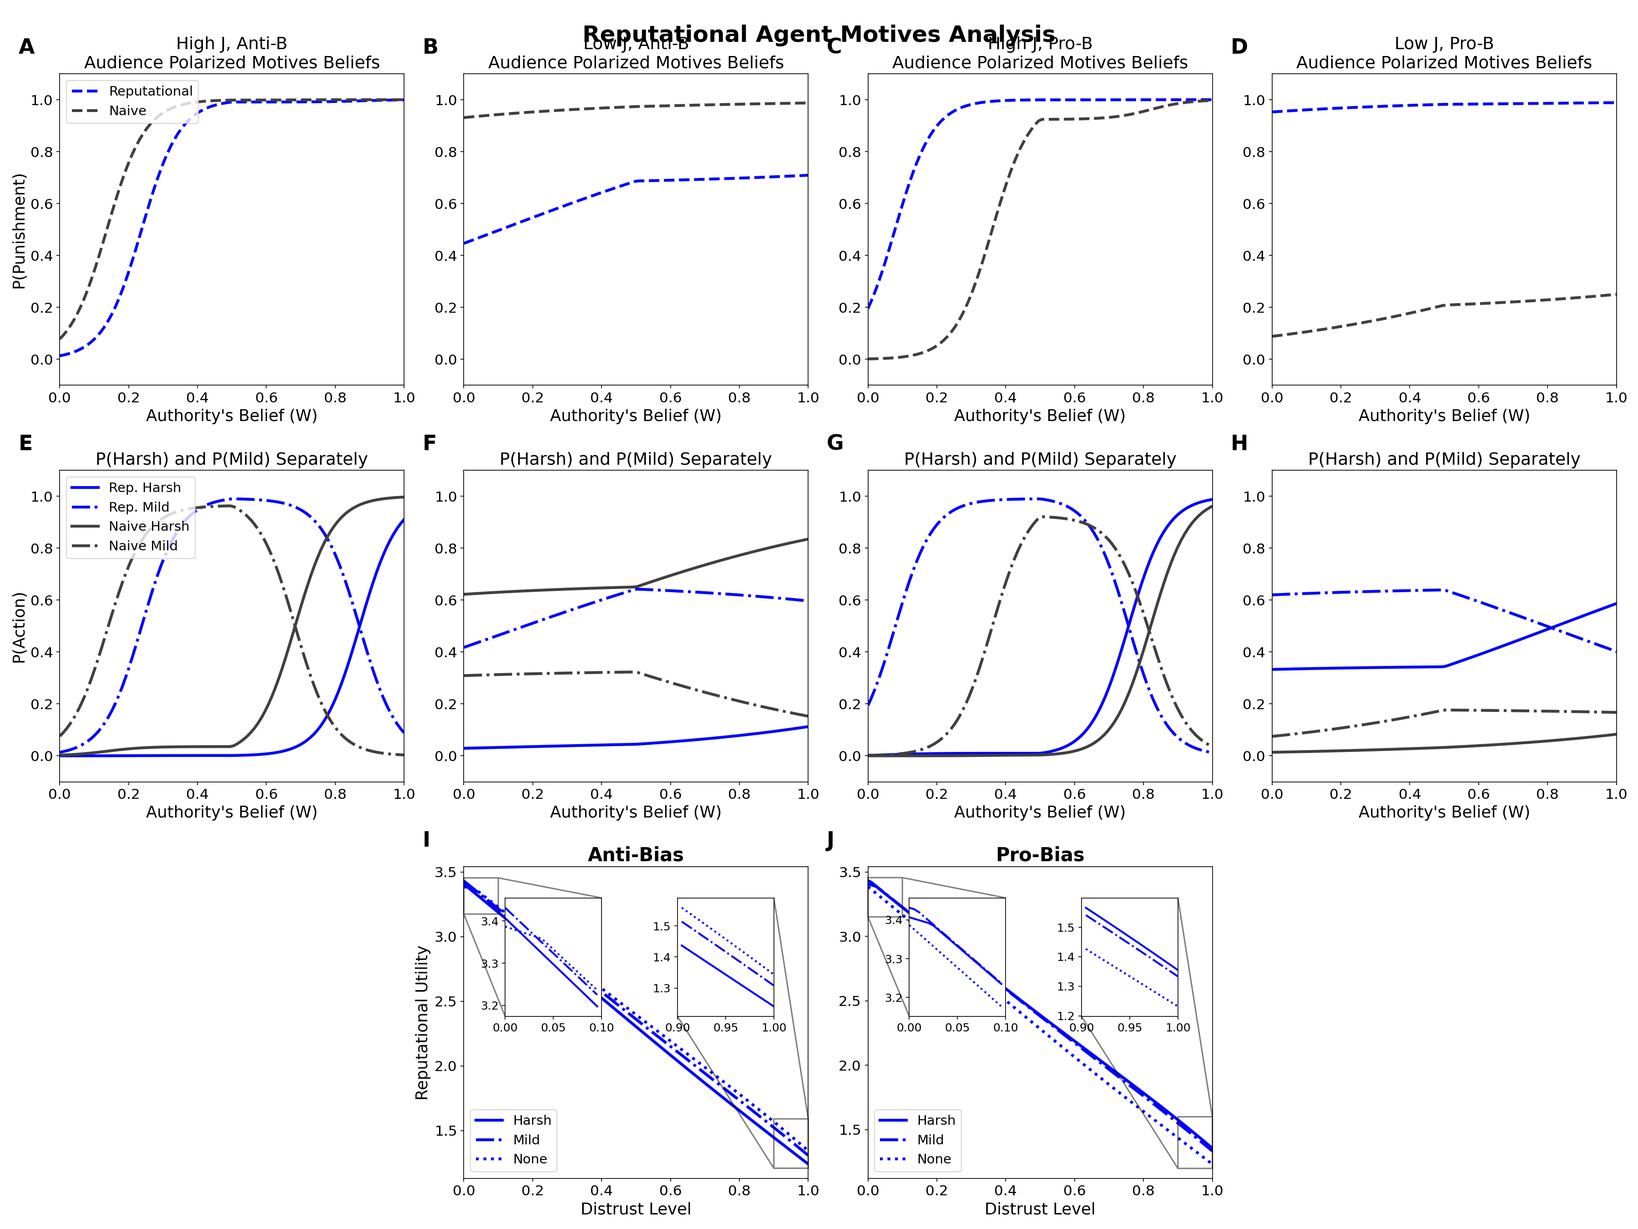
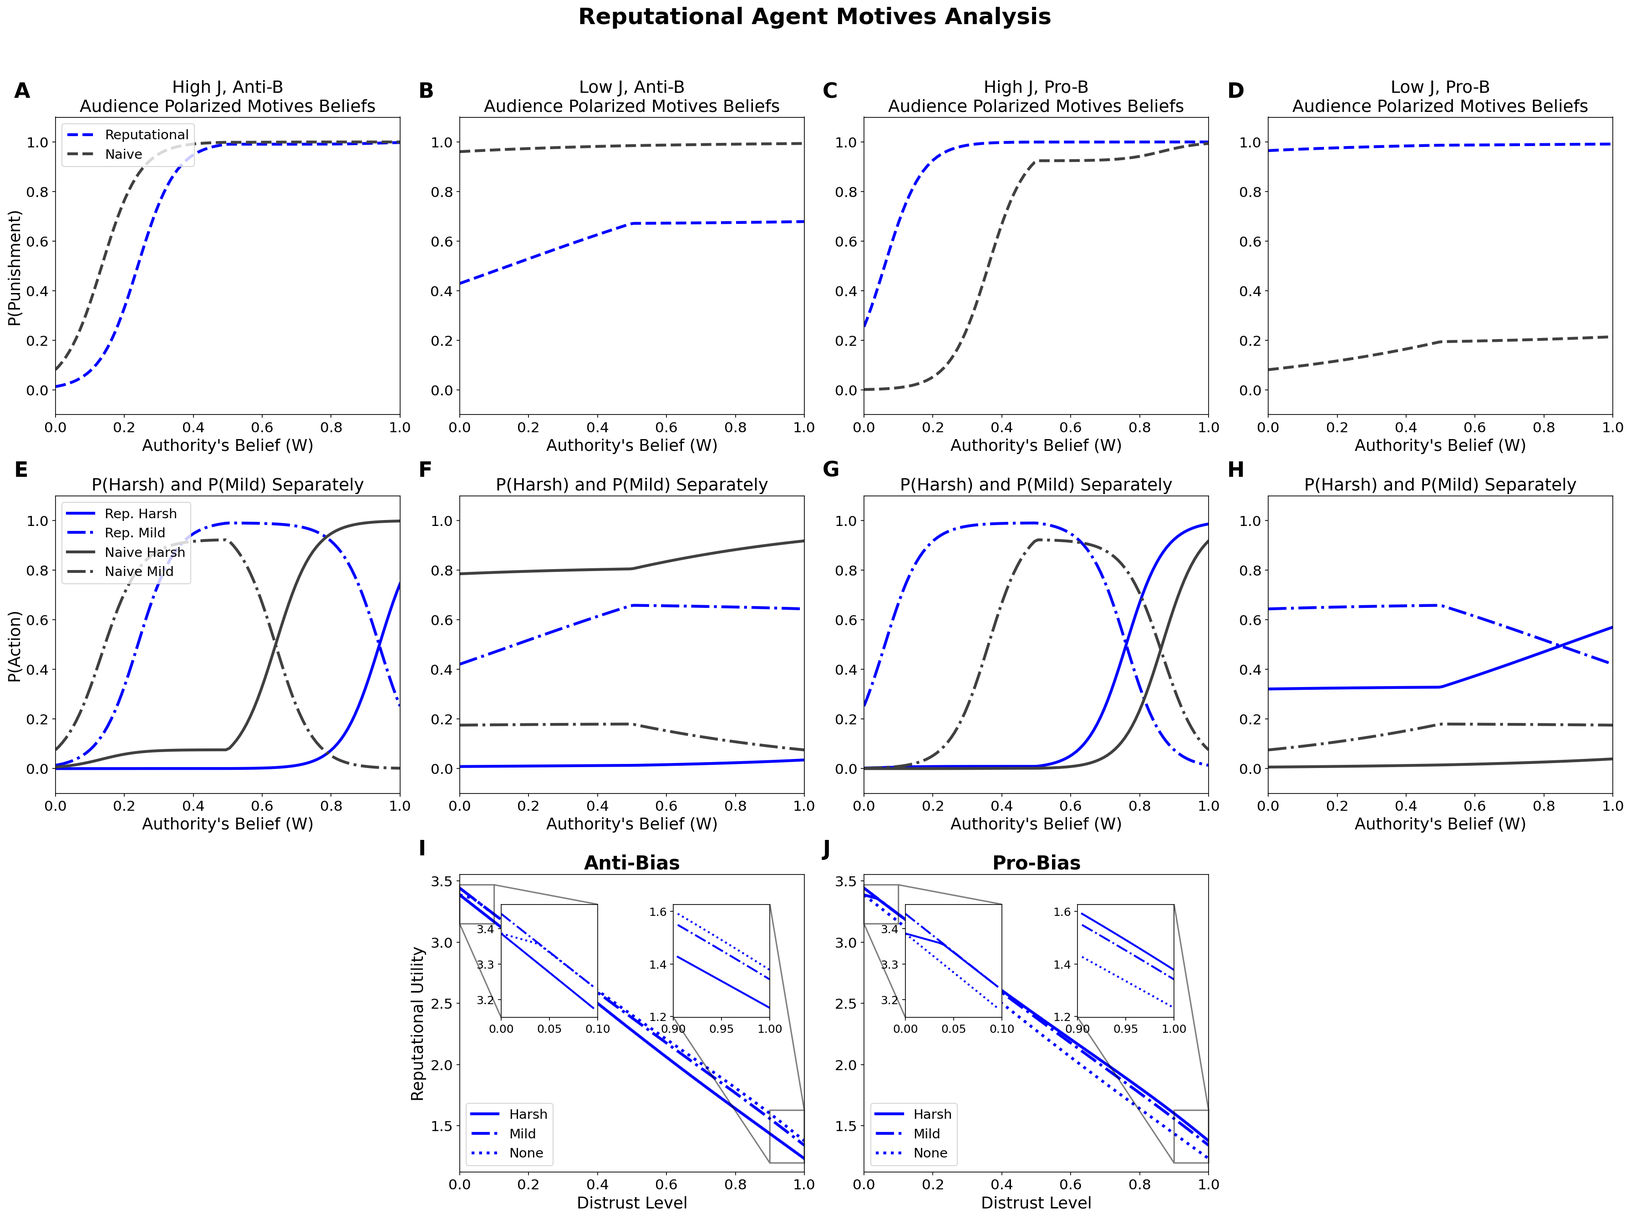
submit

diff --git a/new_models/plot_results.py b/new_models/plot_results.py
@@ -1168,6 +1168,9 @@ FIG2_ALT_FONT_MULTIPLIER = 1.25
 # Color for naive agent in final plots (dark grey instead of green)
 NAIVE_COLOR = '#404040'  # Dark grey
 
+# Lighter blue for alternative figures
+LIGHT_BLUE = '#4A90D9'  # Lighter blue color
+
 # Line styles - CONSISTENT ACROSS ALL PLOTS
 LINESTYLE_HARSH = '-'       # Solid (both probability and utility)
 LINESTYLE_MILD = '-.'       # Dash-dot
@@ -1175,10 +1178,13 @@ LINESTYLE_NONE = ':'        # Dotted
 LINESTYLE_TOTAL = '--'      # Dashed (for total punishment)
 
 
-def run_subplot_polarized_wrongness_final(model_ctx, ax, agent_type, w_values, show_ylabel=True):
+def run_subplot_polarized_wrongness_final(model_ctx, ax, agent_type, w_values, show_ylabel=True, rep_color='blue'):
     """
     Subplot: Polarized Wrongness, Uncertain Motives - reputational and naive agents.
     Shows P(Harsh) and P(Mild) for both agents.
+    
+    Args:
+        rep_color: Color for reputational agent lines (default 'blue').
     """
     true_j, true_b = agent_type['j'], agent_type['b']
     
@@ -1189,7 +1195,7 @@ def run_subplot_polarized_wrongness_final(model_ctx, ax, agent_type, w_values, s
     priors_in = (p_in_w, p_b_unc, p_j_unc)
     priors_out = (p_out_w, p_b_unc, p_j_unc)
     
-    # Reputational agent (blue)
+    # Reputational agent
     weights_rep = get_agent_weights('reputation')
     y_harsh_rep, y_mild_rep = [], []
     
@@ -1206,9 +1212,9 @@ def run_subplot_polarized_wrongness_final(model_ctx, ax, agent_type, w_values, s
         y_harsh_naive.append(probs_naive[2])
         y_mild_naive.append(probs_naive[1])
     
-    # Plot reputational (blue) - Harsh=solid, Mild=dash-dot
-    ax.plot(w_values, y_harsh_rep, color='blue', linestyle=LINESTYLE_HARSH, linewidth=FINAL_LINEWIDTH, label='Rep. Harsh')
-    ax.plot(w_values, y_mild_rep, color='blue', linestyle=LINESTYLE_MILD, linewidth=FINAL_LINEWIDTH, label='Rep. Mild')
+    # Plot reputational - Harsh=solid, Mild=dash-dot
+    ax.plot(w_values, y_harsh_rep, color=rep_color, linestyle=LINESTYLE_HARSH, linewidth=FINAL_LINEWIDTH, label='Rep. Harsh')
+    ax.plot(w_values, y_mild_rep, color=rep_color, linestyle=LINESTYLE_MILD, linewidth=FINAL_LINEWIDTH, label='Rep. Mild')
     
     # Plot naive (dark grey) - Harsh=solid, Mild=dash-dot
     ax.plot(w_values, y_harsh_naive, color=NAIVE_COLOR, linestyle=LINESTYLE_HARSH, linewidth=FINAL_LINEWIDTH, label='Naive Harsh')
@@ -1222,11 +1228,14 @@ def run_subplot_polarized_wrongness_final(model_ctx, ax, agent_type, w_values, s
     ax.tick_params(axis='both', which='major', labelsize=FINAL_TICK_FONTSIZE)
 
 
-def run_subplot_wrongness_polarization_utility_final(model_ctx, ax, agent_type, pol_values, auth_w, show_ylabel=True):
+def run_subplot_wrongness_polarization_utility_final(model_ctx, ax, agent_type, pol_values, auth_w, show_ylabel=True, rep_color='blue'):
     """
     Subplot: Wrongness Polarization Utility - only reputational agent, all 3 actions.
     Shows utility for None, Mild, and Harsh actions.
     Uses consistent line styles: Harsh=solid, Mild=dotted, None=dash-dot.
+    
+    Args:
+        rep_color: Color for reputational agent lines (default 'blue').
     """
     true_j, true_b = agent_type['j'], agent_type['b']
     p_motives = ((1.0, 1.0), (1.0, 1.0), (1.0, 1.0))
@@ -1247,9 +1256,9 @@ def run_subplot_wrongness_polarization_utility_final(model_ctx, ax, agent_type, 
         y_mild.append(utils_rep[1]['u_rep'])
         y_none.append(utils_rep[0]['u_rep'])
     
-    ax.plot(pol_values, y_harsh, color='blue', linestyle=LINESTYLE_HARSH, linewidth=FINAL_LINEWIDTH, label='Harsh')
-    ax.plot(pol_values, y_mild, color='blue', linestyle=LINESTYLE_MILD, linewidth=FINAL_LINEWIDTH, label='Mild')
-    ax.plot(pol_values, y_none, color='blue', linestyle=LINESTYLE_NONE, linewidth=FINAL_LINEWIDTH, label='None')
+    ax.plot(pol_values, y_harsh, color=rep_color, linestyle=LINESTYLE_HARSH, linewidth=FINAL_LINEWIDTH, label='Harsh')
+    ax.plot(pol_values, y_mild, color=rep_color, linestyle=LINESTYLE_MILD, linewidth=FINAL_LINEWIDTH, label='Mild')
+    ax.plot(pol_values, y_none, color=rep_color, linestyle=LINESTYLE_NONE, linewidth=FINAL_LINEWIDTH, label='None')
     
     ax.set_xlabel("Polarization Level", fontsize=FINAL_LABEL_FONTSIZE)
     if show_ylabel:
@@ -1318,7 +1327,7 @@ def run_subplot_polarized_motives_final(model_ctx, ax, agent_type, w_values, sho
     ax.tick_params(axis='both', which='major', labelsize=FINAL_TICK_FONTSIZE)
 
 
-def run_subplot_polarized_motives_final_v2(model_ctx, ax, agent_type, w_values, show_total=True, show_ylabel=True, font_mult=1.0):
+def run_subplot_polarized_motives_final_v2(model_ctx, ax, agent_type, w_values, show_total=True, show_ylabel=True, font_mult=1.0, rep_color='blue'):
     """
     Subplot: Polarized Motives, Uncertain Wrongness - reputational and naive agents.
     Version 2 for Figure 2 Alternative.
@@ -1326,6 +1335,7 @@ def run_subplot_polarized_motives_final_v2(model_ctx, ax, agent_type, w_values, 
     Args:
         show_total: If True, show P(Punishment) dashed. If False, show P(Harsh) solid and P(Mild) dotted.
         font_mult: Font size multiplier (default 1.0).
+        rep_color: Color for reputational agent lines (default 'blue').
     """
     true_j, true_b = agent_type['j'], agent_type['b']
     
@@ -1339,7 +1349,7 @@ def run_subplot_polarized_motives_final_v2(model_ctx, ax, agent_type, w_values, 
     priors_in = (p_in_w, p_in_b, p_in_j)
     priors_out = (p_out_w, p_out_b, p_out_j)
     
-    # Reputational agent (blue)
+    # Reputational agent
     weights_rep = get_agent_weights('reputation')
     y_total_rep, y_harsh_rep, y_mild_rep = [], [], []
     
@@ -1363,14 +1373,14 @@ def run_subplot_polarized_motives_final_v2(model_ctx, ax, agent_type, w_values, 
     
     if show_total:
         # P(Punishment) = dashed
-        ax.plot(w_values, y_total_rep, color='blue', linestyle=LINESTYLE_TOTAL, linewidth=FINAL_LINEWIDTH, label='Rep. P(Punish)')
-        ax.plot(w_values, y_total_naive, color=NAIVE_COLOR, linestyle=LINESTYLE_TOTAL, linewidth=FINAL_LINEWIDTH, label='Naive P(Punish)')
+        ax.plot(w_values, y_total_rep, color=rep_color, linestyle=LINESTYLE_TOTAL, linewidth=FINAL_LINEWIDTH, label='Rep. Punish')
+        ax.plot(w_values, y_total_naive, color=NAIVE_COLOR, linestyle=LINESTYLE_TOTAL, linewidth=FINAL_LINEWIDTH, label='Naive Punish')
         if show_ylabel:
             ax.set_ylabel("P(Punishment)", fontsize=label_fs)
     else:
         # P(Harsh) = solid, P(Mild) = dash-dot
-        ax.plot(w_values, y_harsh_rep, color='blue', linestyle=LINESTYLE_HARSH, linewidth=FINAL_LINEWIDTH, label='Rep. Harsh')
-        ax.plot(w_values, y_mild_rep, color='blue', linestyle=LINESTYLE_MILD, linewidth=FINAL_LINEWIDTH, label='Rep. Mild')
+        ax.plot(w_values, y_harsh_rep, color=rep_color, linestyle=LINESTYLE_HARSH, linewidth=FINAL_LINEWIDTH, label='Rep. Harsh')
+        ax.plot(w_values, y_mild_rep, color=rep_color, linestyle=LINESTYLE_MILD, linewidth=FINAL_LINEWIDTH, label='Rep. Mild')
         ax.plot(w_values, y_harsh_naive, color=NAIVE_COLOR, linestyle=LINESTYLE_HARSH, linewidth=FINAL_LINEWIDTH, label='Naive Harsh')
         ax.plot(w_values, y_mild_naive, color=NAIVE_COLOR, linestyle=LINESTYLE_MILD, linewidth=FINAL_LINEWIDTH, label='Naive Mild')
         if show_ylabel:
@@ -1382,7 +1392,7 @@ def run_subplot_polarized_motives_final_v2(model_ctx, ax, agent_type, w_values, 
     ax.tick_params(axis='both', which='major', labelsize=tick_fs)
 
 
-def run_subplot_trust_polarization_utility_final_with_insets(model_ctx, ax, agent_type, pol_values, auth_w, show_ylabel=True, inset_bottom=False, font_mult=1.0):
+def run_subplot_trust_polarization_utility_final_with_insets(model_ctx, ax, agent_type, pol_values, auth_w, show_ylabel=True, inset_bottom=False, font_mult=1.0, rep_color='blue'):
     """
     Subplot: Trust Polarization Utility - only reputational agent, all 3 actions.
     Includes inset zoom boxes for the extremes (0-0.1 and 0.9-1.0).
@@ -1390,6 +1400,7 @@ def run_subplot_trust_polarization_utility_final_with_insets(model_ctx, ax, agen
     Args:
         inset_bottom: If True, place left inset at bottom-left to avoid covering main lines.
         font_mult: Font size multiplier (default 1.0).
+        rep_color: Color for reputational agent lines (default 'blue').
     """
     true_j, true_b = agent_type['j'], agent_type['b']
     
@@ -1429,9 +1440,9 @@ def run_subplot_trust_polarization_utility_final_with_insets(model_ctx, ax, agen
     inset_tick_fs = int(FINAL_INSET_TICK_FONTSIZE * font_mult)
     
     # Main plot - using consistent line styles: Harsh=solid, Mild=dotted, None=dash-dot
-    ax.plot(pol_values, y_harsh, color='blue', linestyle=LINESTYLE_HARSH, linewidth=FINAL_LINEWIDTH, label='Harsh')
-    ax.plot(pol_values, y_mild, color='blue', linestyle=LINESTYLE_MILD, linewidth=FINAL_LINEWIDTH, label='Mild')
-    ax.plot(pol_values, y_none, color='blue', linestyle=LINESTYLE_NONE, linewidth=FINAL_LINEWIDTH, label='None')
+    ax.plot(pol_values, y_harsh, color=rep_color, linestyle=LINESTYLE_HARSH, linewidth=FINAL_LINEWIDTH, label='Harsh')
+    ax.plot(pol_values, y_mild, color=rep_color, linestyle=LINESTYLE_MILD, linewidth=FINAL_LINEWIDTH, label='Mild')
+    ax.plot(pol_values, y_none, color=rep_color, linestyle=LINESTYLE_NONE, linewidth=FINAL_LINEWIDTH, label='None')
     
     ax.set_xlabel("Distrust Level", fontsize=label_fs)
     if show_ylabel:
@@ -1448,9 +1459,9 @@ def run_subplot_trust_polarization_utility_final_with_insets(model_ctx, ax, agen
     # Filter data for left inset
     mask_left = pol_values <= 0.1
     if np.any(mask_left):
-        axins1.plot(pol_values[mask_left], y_harsh[mask_left], color='blue', linestyle=LINESTYLE_HARSH, linewidth=FINAL_INSET_LINEWIDTH)
-        axins1.plot(pol_values[mask_left], y_mild[mask_left], color='blue', linestyle=LINESTYLE_MILD, linewidth=FINAL_INSET_LINEWIDTH)
-        axins1.plot(pol_values[mask_left], y_none[mask_left], color='blue', linestyle=LINESTYLE_NONE, linewidth=FINAL_INSET_LINEWIDTH)
+        axins1.plot(pol_values[mask_left], y_harsh[mask_left], color=rep_color, linestyle=LINESTYLE_HARSH, linewidth=FINAL_INSET_LINEWIDTH)
+        axins1.plot(pol_values[mask_left], y_mild[mask_left], color=rep_color, linestyle=LINESTYLE_MILD, linewidth=FINAL_INSET_LINEWIDTH)
+        axins1.plot(pol_values[mask_left], y_none[mask_left], color=rep_color, linestyle=LINESTYLE_NONE, linewidth=FINAL_INSET_LINEWIDTH)
         axins1.set_xlim(0.0, 0.1)
         # Auto-scale y based on data range
         all_y_left = np.concatenate([y_harsh[mask_left], y_mild[mask_left], y_none[mask_left]])
@@ -1465,9 +1476,9 @@ def run_subplot_trust_polarization_utility_final_with_insets(model_ctx, ax, agen
     # Filter data for right inset
     mask_right = pol_values >= 0.9
     if np.any(mask_right):
-        axins2.plot(pol_values[mask_right], y_harsh[mask_right], color='blue', linestyle=LINESTYLE_HARSH, linewidth=FINAL_INSET_LINEWIDTH)
-        axins2.plot(pol_values[mask_right], y_mild[mask_right], color='blue', linestyle=LINESTYLE_MILD, linewidth=FINAL_INSET_LINEWIDTH)
-        axins2.plot(pol_values[mask_right], y_none[mask_right], color='blue', linestyle=LINESTYLE_NONE, linewidth=FINAL_INSET_LINEWIDTH)
+        axins2.plot(pol_values[mask_right], y_harsh[mask_right], color=rep_color, linestyle=LINESTYLE_HARSH, linewidth=FINAL_INSET_LINEWIDTH)
+        axins2.plot(pol_values[mask_right], y_mild[mask_right], color=rep_color, linestyle=LINESTYLE_MILD, linewidth=FINAL_INSET_LINEWIDTH)
+        axins2.plot(pol_values[mask_right], y_none[mask_right], color=rep_color, linestyle=LINESTYLE_NONE, linewidth=FINAL_INSET_LINEWIDTH)
         axins2.set_xlim(0.9, 1.0)
         # Auto-scale y based on data range
         all_y_right = np.concatenate([y_harsh[mask_right], y_mild[mask_right], y_none[mask_right]])
@@ -1689,7 +1700,7 @@ def run_final_figure_1(model_ctx, filename="final_fig1.png"):
     # Row 2: 1 centered subplot spanning the middle 2 positions
     ax_row2 = fig.add_subplot(2, 4, (6, 7))
     
-    fig.suptitle("Reputational Agent Wrongness Analysis", fontsize=FINAL_SUPTITLE_FONTSIZE, fontweight='bold')
+    fig.suptitle("Reputational Agent Wrongness Analysis", fontsize=FINAL_SUPTITLE_FONTSIZE, fontweight='bold', y=0.99)
     
     w_values = np.linspace(0.0, 1.0, 100)
     pol_values = np.linspace(0.0, 1.0, 100)
@@ -1720,8 +1731,8 @@ def run_final_figure_1(model_ctx, filename="final_fig1.png"):
     ax_row2.text(-0.06, 1.05, 'E', transform=ax_row2.transAxes, fontsize=FINAL_SUBPLOT_LABEL_FONTSIZE, fontweight='bold', va='bottom')
     
     plt.tight_layout()
-    plt.subplots_adjust(top=0.92)
-    plt.savefig(filename, dpi=150)
+    plt.subplots_adjust(top=0.88)
+    plt.savefig(filename, dpi=150, bbox_inches='tight')
     plt.close(fig)
     logger.info(f"Final Figure 1 saved to {filename} in {time.time() - figure_start:.2f}s")
 
@@ -1772,7 +1783,7 @@ def run_final_figure_2(model_ctx, filename="final_fig2.png"):
     ax_row3_left = fig.add_subplot(3, 4, 10)
     ax_row3_right = fig.add_subplot(3, 4, 11)
     
-    fig.suptitle("Reputational Agent Motives Analysis", fontsize=FINAL_SUPTITLE_FONTSIZE, fontweight='bold')
+    fig.suptitle("Reputational Agent Motives Analysis", fontsize=FINAL_SUPTITLE_FONTSIZE, fontweight='bold', y=0.99)
     
     w_values = np.linspace(0.0, 1.0, 100)
     pol_values = np.linspace(0.0, 1.0, 200)  # More points for smoother inset zooms
@@ -1827,8 +1838,8 @@ def run_final_figure_2(model_ctx, filename="final_fig2.png"):
     ax_row3_right.text(-0.12, 1.05, 'J', transform=ax_row3_right.transAxes, fontsize=FINAL_SUBPLOT_LABEL_FONTSIZE, fontweight='bold', va='bottom')
     
     plt.tight_layout()
-    plt.subplots_adjust(top=0.94)
-    plt.savefig(filename, dpi=150)
+    plt.subplots_adjust(top=0.90)
+    plt.savefig(filename, dpi=150, bbox_inches='tight')
     plt.close(fig)
     logger.info(f"Final Figure 2 saved to {filename} in {time.time() - figure_start:.2f}s")
 
@@ -1846,7 +1857,7 @@ def run_final_figure_1_alt(model_ctx, filename="final_fig1_alt.png"):
     
     fig, axes = plt.subplots(1, 5, figsize=(30, 6))
     
-    fig.suptitle("Reputational Agent Wrongness Analysis", fontsize=FINAL_SUPTITLE_FONTSIZE, fontweight='bold', y=0.98)
+    fig.suptitle("Polarization in Moral Beliefs", fontsize=FINAL_SUPTITLE_FONTSIZE, fontweight='bold', y=1.08)
     
     w_values = np.linspace(0.0, 1.0, 100)
     pol_values = np.linspace(0.0, 1.0, 100)
@@ -1858,9 +1869,9 @@ def run_final_figure_1_alt(model_ctx, filename="final_fig1_alt.png"):
         agent_type = AGENT_TYPES[agent_idx]
         logger.info(f"  Processing column {col+1}/5: {agent_type['label']}")
         ax = axes[col]
-        ax.set_title(f"{agent_type['label']}\nAudience Polarized Wrongness Beliefs", fontsize=FINAL_TITLE_FONTSIZE)
+        ax.set_title(agent_type['label'], fontsize=FINAL_TITLE_FONTSIZE)
         show_ylabel = (col == 0)
-        run_subplot_polarized_wrongness_final(model_ctx, ax, agent_type, w_values, show_ylabel=show_ylabel)
+        run_subplot_polarized_wrongness_final(model_ctx, ax, agent_type, w_values, show_ylabel=show_ylabel, rep_color=LIGHT_BLUE)
         if col == 0:
             ax.legend(loc='upper left', fontsize=FINAL_LEGEND_FONTSIZE)
         # Add unique alphabetical label
@@ -1871,14 +1882,14 @@ def run_final_figure_1_alt(model_ctx, filename="final_fig1_alt.png"):
     agent_type_for_utility = AGENT_TYPES[0]  # High J, Anti-B
     ax = axes[4]
     ax.set_title("Wrongness Polarization\nUtility", fontsize=FINAL_TITLE_FONTSIZE)
-    run_subplot_wrongness_polarization_utility_final(model_ctx, ax, agent_type_for_utility, pol_values, auth_w=1.0, show_ylabel=True)
+    run_subplot_wrongness_polarization_utility_final(model_ctx, ax, agent_type_for_utility, pol_values, auth_w=1.0, show_ylabel=True, rep_color=LIGHT_BLUE)
     ax.legend(loc='upper right', fontsize=FINAL_LEGEND_FONTSIZE)
     # Add unique alphabetical label
     ax.text(-0.12, 1.05, subplot_labels[4], transform=ax.transAxes, fontsize=FINAL_SUBPLOT_LABEL_FONTSIZE, fontweight='bold', va='bottom')
     
     plt.tight_layout()
     plt.subplots_adjust(top=0.82)
-    plt.savefig(filename, dpi=150)
+    plt.savefig(filename, dpi=150, bbox_inches='tight')
     plt.close(fig)
     logger.info(f"Final Figure 1 (Alternative) saved to {filename} in {time.time() - figure_start:.2f}s")
 
@@ -1907,7 +1918,7 @@ def run_final_figure_2_alt(model_ctx, filename="final_fig2_alt.png"):
     
     fig, axes = plt.subplots(2, 5, figsize=(30, 12))
     
-    fig.suptitle("Reputational Agent Motives Analysis", fontsize=suptitle_fs, fontweight='bold', y=0.98)
+    fig.suptitle("Polarization About Authority's Legitimacy", fontsize=suptitle_fs, fontweight='bold', y=1.02)
     
     w_values = np.linspace(0.0, 1.0, 100)
     pol_values = np.linspace(0.0, 1.0, 200)
@@ -1922,9 +1933,9 @@ def run_final_figure_2_alt(model_ctx, filename="final_fig2_alt.png"):
         agent_type = AGENT_TYPES[agent_idx]
         logger.info(f"  Row 1, column {col+1}/5: {agent_type['label']}")
         ax = axes[0, col]
-        ax.set_title(f"{agent_type['label']}\nAudience Polarized Motives Beliefs", fontsize=title_fs)
+        ax.set_title(agent_type['label'], fontsize=title_fs)
         show_ylabel = (col == 0)
-        run_subplot_polarized_motives_final_v2(model_ctx, ax, agent_type, w_values, show_total=True, show_ylabel=show_ylabel, font_mult=fm)
+        run_subplot_polarized_motives_final_v2(model_ctx, ax, agent_type, w_values, show_total=True, show_ylabel=show_ylabel, font_mult=fm, rep_color=LIGHT_BLUE)
         if col == 0:
             ax.legend(loc='upper left', fontsize=legend_fs)
         # Add unique alphabetical label
@@ -1934,7 +1945,7 @@ def run_final_figure_2_alt(model_ctx, filename="final_fig2_alt.png"):
     logger.info("  Row 1, column 5/5: Anti-Bias Utility")
     ax = axes[0, 4]
     ax.set_title("Anti-Bias\nTrust Polarization Utility", fontsize=title_fs)
-    run_subplot_trust_polarization_utility_final_with_insets(model_ctx, ax, AGENT_TYPES[0], pol_values, auth_w=1.0, show_ylabel=True, inset_bottom=True, font_mult=fm)
+    run_subplot_trust_polarization_utility_final_with_insets(model_ctx, ax, AGENT_TYPES[0], pol_values, auth_w=1.0, show_ylabel=True, inset_bottom=True, font_mult=fm, rep_color=LIGHT_BLUE)
     ax.legend(loc='lower right', fontsize=legend_fs - 1)
     # Add unique alphabetical label
     ax.text(-0.12, 1.05, row1_labels[4], transform=ax.transAxes, fontsize=label_fs, fontweight='bold', va='bottom')
@@ -1944,9 +1955,9 @@ def run_final_figure_2_alt(model_ctx, filename="final_fig2_alt.png"):
         agent_type = AGENT_TYPES[agent_idx]
         logger.info(f"  Row 2, column {col+1}/5: {agent_type['label']}")
         ax = axes[1, col]
-        ax.set_title(f"P(Harsh) and P(Mild)", fontsize=title_fs)
+        ax.set_title(agent_type['label'], fontsize=title_fs)
         show_ylabel = (col == 0)
-        run_subplot_polarized_motives_final_v2(model_ctx, ax, agent_type, w_values, show_total=False, show_ylabel=show_ylabel, font_mult=fm)
+        run_subplot_polarized_motives_final_v2(model_ctx, ax, agent_type, w_values, show_total=False, show_ylabel=show_ylabel, font_mult=fm, rep_color=LIGHT_BLUE)
         if col == 0:
             ax.legend(loc='upper left', fontsize=legend_fs)
         # Add unique alphabetical label
@@ -1956,14 +1967,14 @@ def run_final_figure_2_alt(model_ctx, filename="final_fig2_alt.png"):
     logger.info("  Row 2, column 5/5: Pro-Bias Utility")
     ax = axes[1, 4]
     ax.set_title("Pro-Bias\nTrust Polarization Utility", fontsize=title_fs)
-    run_subplot_trust_polarization_utility_final_with_insets(model_ctx, ax, AGENT_TYPES[1], pol_values, auth_w=1.0, show_ylabel=True, inset_bottom=True, font_mult=fm)
+    run_subplot_trust_polarization_utility_final_with_insets(model_ctx, ax, AGENT_TYPES[1], pol_values, auth_w=1.0, show_ylabel=True, inset_bottom=True, font_mult=fm, rep_color=LIGHT_BLUE)
     ax.legend(loc='lower right', fontsize=legend_fs - 1)
     # Add unique alphabetical label
     ax.text(-0.12, 1.05, row2_labels[4], transform=ax.transAxes, fontsize=label_fs, fontweight='bold', va='bottom')
     
     plt.tight_layout()
     plt.subplots_adjust(top=0.90)
-    plt.savefig(filename, dpi=150)
+    plt.savefig(filename, dpi=150, bbox_inches='tight')
     plt.close(fig)
     logger.info(f"Final Figure 2 (Alternative) saved to {filename} in {time.time() - figure_start:.2f}s")
 
@@ -1995,7 +2006,7 @@ def run_final_figure_3(model_ctx, filename="final_fig3.png"):
     w_values = np.linspace(0.0, 1.0, 100)
     pol_values = np.linspace(0.0, 1.0, 100)
     
-    fig.suptitle("Communicative Agent Wrongness and Motives Analysis", fontsize=FINAL_SUPTITLE_FONTSIZE, fontweight='bold')
+    fig.suptitle("Communicative Authority", fontsize=FINAL_SUPTITLE_FONTSIZE, fontweight='bold', y=0.99)
     
     # High Justice agent types: High J Anti-B (index 0), High J Pro-B (index 1)
     high_j_agents = [AGENT_TYPES[0], AGENT_TYPES[1]]
@@ -2059,8 +2070,8 @@ def run_final_figure_3(model_ctx, filename="final_fig3.png"):
     ax_b_br.text(-0.12, 1.05, 'G', transform=ax_b_br.transAxes, fontsize=FINAL_SUBPLOT_LABEL_FONTSIZE, fontweight='bold', va='bottom')
     
     plt.tight_layout()
-    plt.subplots_adjust(top=0.92)
-    plt.savefig(filename, dpi=150)
+    plt.subplots_adjust(top=0.88)
+    plt.savefig(filename, dpi=150, bbox_inches='tight')
     plt.close(fig)
     logger.info(f"Final Figure 3 saved to {filename} in {time.time() - figure_start:.2f}s")
 

diff --git a/new_models/models.py b/new_models/models.py
@@ -20,8 +20,8 @@ def setup_grids(grid_size):
 # Fixed action-related constants
 ACTIONS = jnp.array([0, 1, 2])       # None, Mild, Harsh
 SEVERITY = jnp.array([0.0, 0.5, 1.0])
-# COST_TARGET = jnp.array([0.0, -0.5, -1.0])
-COST_TARGET = jnp.array([0.0, -0.5, -0.8]) # this is for other settings, less cost on harsh
+COST_TARGET = jnp.array([0.0, -0.5, -1.0])
+# COST_TARGET = jnp.array([0.0, -0.5, -0.8]) # this is for other settings, less cost on harsh
 # COST_SELF = jnp.array([0.0, -0.1, -0.2])
 COST_SELF = jnp.array([0.0, 0.0, 0.0]) # this is for other settings; not focusing on selfishness, see Radkani et al. 
 # COST_SELF = jnp.array([0.0, -0.05, -0.05])
